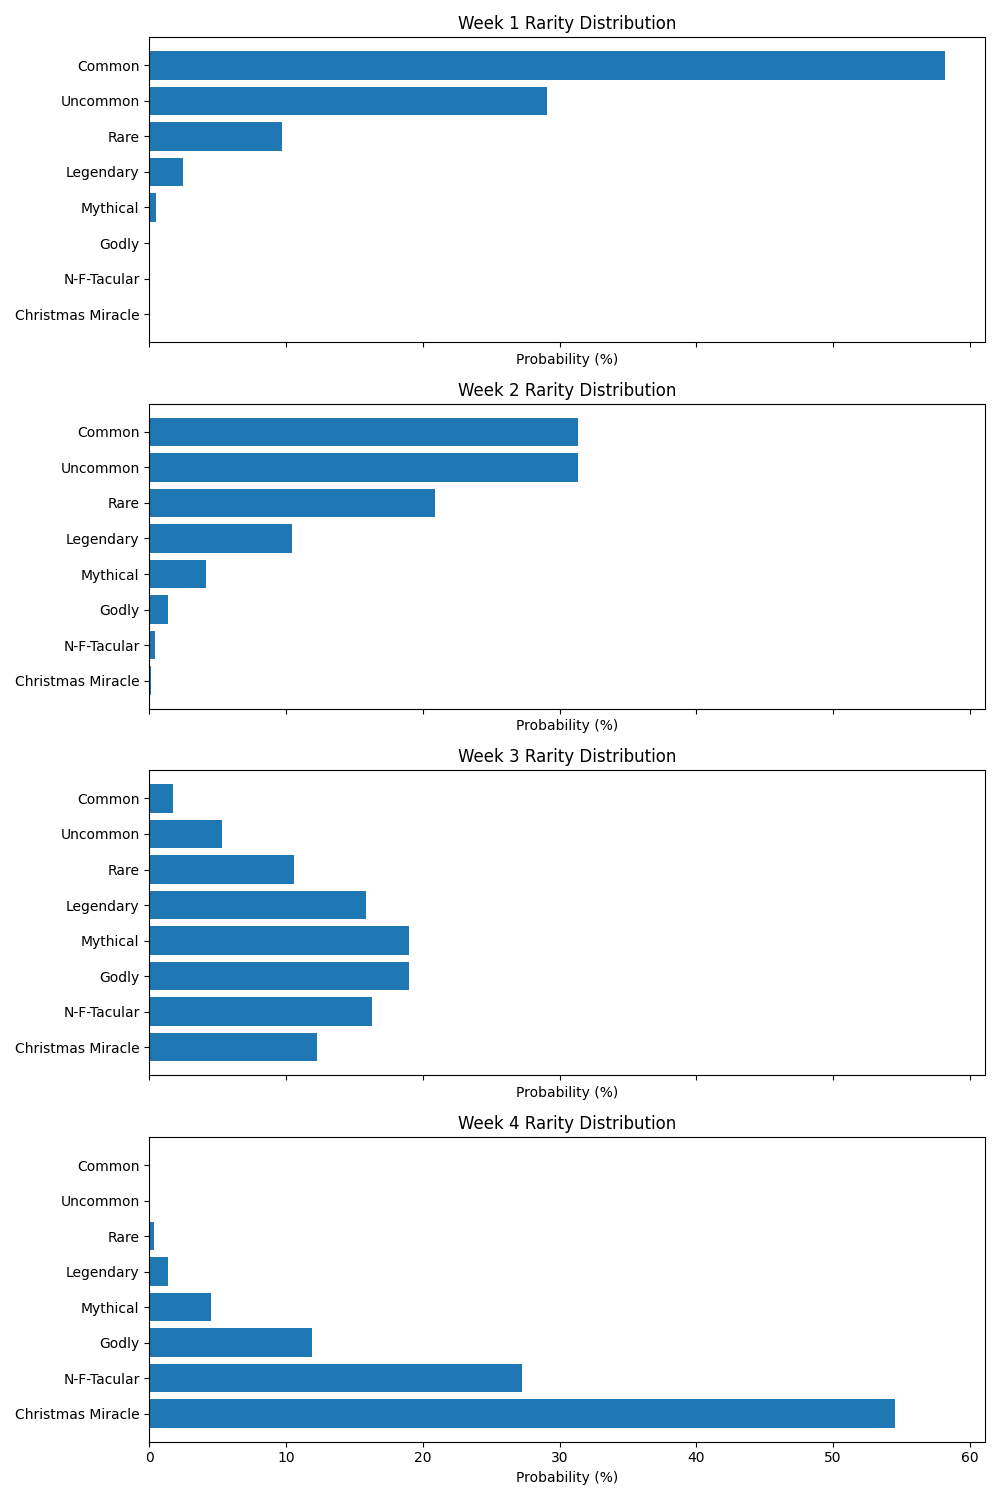
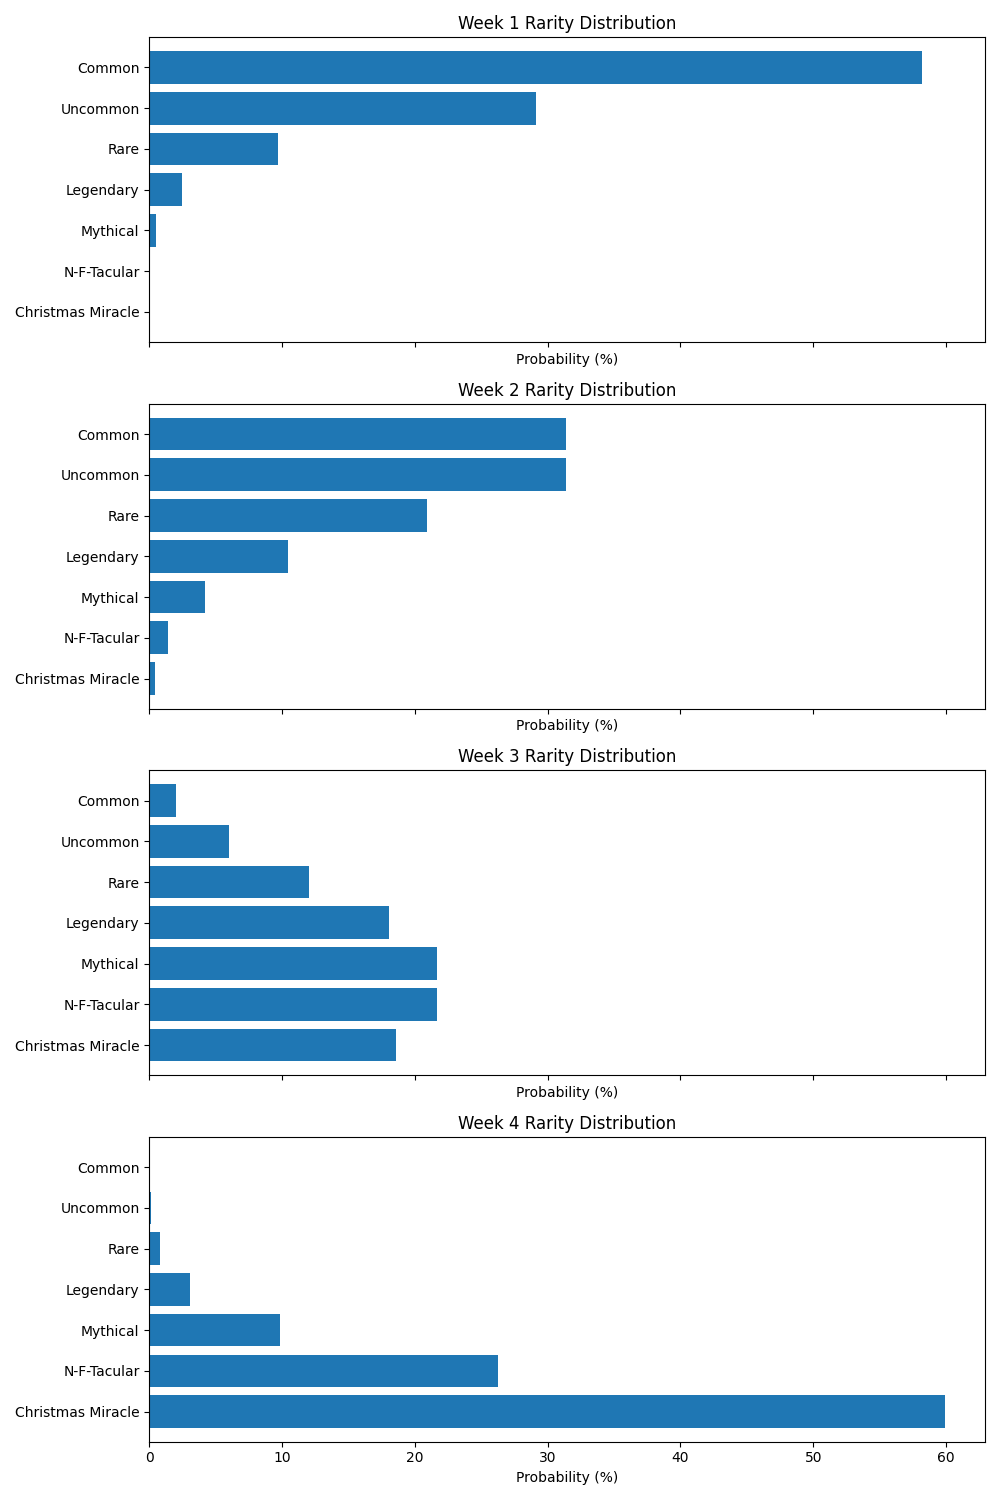
Removed godly and added all gifs.

diff --git a/experiments/test-rarity-border.py b/experiments/test-rarity-border.py
@@ -2,18 +2,30 @@
 # %%
 from PIL import Image
 
-# Load the example images
-# frame_gif = Image.open("../frames/neon_frame.gif")
-# frame_gif = Image.open("../frames/cat_crime_graffiti.gif")
-frame_gif = Image.open("../frames/glitch_unstable.gif")
+# Load the example image
+# frame_name = "neon_frame"
+# frame_name = "cat_crime_graffiti"
+# frame_name = "glitch_unstable"
+# frame_name = "speedlines"
+# frame_name = "glitch_wave"
+# frame_name = "darkage_red"
+# frame_name = "rain_of_gold"
+frame_name = "christmas_lights"
+
+frame_gif = Image.open(f"../frames/{frame_name}.gif")
+
 image = Image.open("imgs/cat_santa.png")
 width, height = image.size
 
 # Create a black background image
-offset = 275
-base_layer = Image.new(mode="RGB", size=(width + offset, height + offset))
+if frame_name.lower() in ["speedlines", "rain_of_gold"]:
+    OFFSET = 0
+else:
+    OFFSET = 275
+
+base_layer = Image.new(mode="RGB", size=(width + OFFSET, height + OFFSET))
 # Paste the target image on the base layer
-base_layer.paste(image, (offset//2, offset//2))
+base_layer.paste(image, (OFFSET//2, OFFSET//2))
 
 # Break apart the frame gif, paste it ontop of the base image, and reconstruct it in a list
 gif_imgs = []
@@ -21,7 +33,7 @@ try:
     while 1:
         # Get the next frame, resize it, and add an alpha layer
         frame_gif.seek(frame_gif.tell()+1)
-        frame_img = frame_gif.resize((width + offset, height + offset))
+        frame_img = frame_gif.resize((width + OFFSET, height + OFFSET))
         frame_img = frame_img.convert('RGBA')
 
         # Copy the base layer image
@@ -31,7 +43,6 @@ try:
 
         # Add this frame to the output list
         gif_imgs.append(temp_img.copy())
-
 except EOFError:
     pass # end of sequence
 

diff --git a/experiments/drop-rates.py b/experiments/drop-rates.py
@@ -12,7 +12,7 @@ import matplotlib.pyplot as plt
 from scipy.stats import poisson
 
 # Initialization
-labels = ["Common", "Uncommon", "Rare", "Legendary", "Mythical", "Godly", "N-F-Tacular", "Christmas Miracle"]
+labels = ["Common", "Uncommon", "Rare", "Legendary", "Mythical", "N-F-Tacular", "Christmas Miracle"]
 num_labels = len(labels)
 ids = np.arange(1, num_labels + 1)
 values = 2*ids

diff --git a/README.md b/README.md
@@ -7,11 +7,11 @@ Every day in the month of December, users will be able to interact with the Disc
 Every gift's artwork will be procedurally generated and created by an AI program ([Dalle-2](https://openai.com/dall-e-2/)) that translates natural language text into images.
 Each NFT will be randomly generated with different atributes and rarity levels.
 Attributes include a variety of subjects, hats, eyes, beards, scarfs, and backgrounds!
-With over 271,881,792 possiblities, there is sure to be something for everyone!
+With over 22,656,816 possiblities, there is sure to be something for everyone!
 
 ... Also, as a special Christmas gift, Santa will be loading up your Ethereum wallets with $1 Billion dollars in Ethereum (~758,000 ETH), so feel free to set prices and trade NFTs amongst yourselves!
 
-There are 8 Rarity Levels (listed in order of increasing rarity):
+There are 7 Rarity Levels (listed in order of increasing rarity):
 
 | Rarity Level      |
 | -----------       |
@@ -20,7 +20,6 @@ There are 8 Rarity Levels (listed in order of increasing rarity):
 | Rare              |
 | Legendary         |
 | Mythical          |
-| Godly             |
 | N-F-Tacular       |
 | Christmas Miracle |
 
@@ -32,18 +31,17 @@ Once I generate your wallet addresses, you can see your NFT collection on [Opens
 # --------------------------------------------------------------- #
 # Rarity Level Overview
 
-There are 8 Rarity Levels of Advent NFTs.
+There are 7 Rarity Levels of Advent NFTs.
 
 | Rarity Level      | Initial Probabilities |
-| -----------       | -----------       |
-| Common            | 58.198 %          |
-| Uncommon          | 29.099 %          |
-| Rare              |  9.700 %          |
-| Legendary         |  2.425 %          |
-| Mythical          |  0.485 %          |
-| Godly             |  0.081 %          |
-| N-F-Tacular       |  0.012 %          |
-| Christmas Miracle |  0.001 %          |
+| -----------       | -----------           |
+| Common 		    | 58.199 %              |
+| Uncommon 		    | 29.099 %              |
+| Rare 		        | 9.700 %               |
+| Legendary 		| 2.425 %               |
+| Mythical 		    | 0.485 %               |
+| N-F-Tacular 		| 0.081 %               |
+| Christmas Miracle | 0.012 %               |
 
 Every week, the probability mass function (PMF) describing the "rarity" or "drop rate" for NFTs characterized by each Rarity Level will be modified as described in the PMF histograms.
 
@@ -61,10 +59,11 @@ Each rarity level has different frame options.
 | Uncommon          | <ul><li>Portal Blue</li><li>Portal Orange</li></ul> |
 | Rare              | <ul><li>Darkage [red]</li><li>Darkage [blue]</li></ul> |
 | Legendary         | <ul><li>Darkage [rgb]</li><li>Glitch [unstable]</li></ul> |
-| Mythical          | <ul><li>Glitch [Neon]</li><li>Neon Frame</li></ul> |
-| Godly             | <ul><li>Orange God Rays</li><li>Green God Rays</li></ul> |
-| N-F-Tacular       | <ul><li>Speedlines</li><li>Rain of gold</li></ul> |
-| Christmas Miracle | Human: fall flat christmas lights |
+| Mythical          | <ul><li>Glitch [Neon]</li><li>Neon Frame</li><li>Glitch Wave</li></ul> |
+| N-F-Tacular       | <ul><li>Speedlines</li><li>Rain of gold</li><li>Cat Graffiti</li></ul> |
+| Christmas Miracle | Christmas lights |
+
+Total Frames: 14
 
 ## Subjects
 
@@ -92,6 +91,7 @@ Each rarity level has different frame options.
 | Alan          |
 | Nala          |
 
+Total Subjects: 19
 
 ## Backgrounds
 
@@ -100,21 +100,28 @@ Each rarity level has different frame options.
 | None           |
 | Snow           |
 | Ice            |
+| Space          |
+| vv Only Christmas Miracle vv | 
 | Fireplace      |
 | Christmas Tree |
 | North Pole     |
-| Space          |
 
-## Headware
+Total Backgrounds: 7
 
-| Headware    |
+## Hats
+
+| Hats        |
 | ----------- | 
 | None        |
 | Winter Hat  |
 | Nightcap    |
+| vv Only N-F-Tacular + vv |
 | Robobt Head |
+| vv Only Christmas Miracle vv |
 | Santa Hat   |
 | Party Hat   |
+
+Total Hats: 6
 
 ## Eyes
 
@@ -125,14 +132,19 @@ Each rarity level has different frame options.
 | Blue           |
 | Brown          |
 | Green          |
+| vv Only Mythic + vv |
 | Purple         |
-| Pepermint      |
 | Neon           |
 | RGB            |
+| vv Only N-F-Tacular + vv |
 | Rainbow        |
 | Fire           |
 | Sunglasses     |
 | Laser eyes     |
+| vv Only Christmas Miracle vv |
+| Pepermint      |
+
+Total Eyes: 13
 
 ## Beards
 
@@ -144,12 +156,17 @@ Each rarity level has different frame options.
 | Blue           |
 | Brown          |
 | Green          |
+| vv Only Mythic + vv |
 | Purple         |
-| Pepermint      |
 | Neon           |
 | RGB            |
+| vv Only N-F-Tacular + vv |
 | Rainbow        |
 | Fire           |
+| vv Only Christmas Miracle vv |
+| Pepermint      |
+
+Total Beards: 12
 
 ## Scarfs
 
@@ -161,9 +178,14 @@ Each rarity level has different frame options.
 | Blue           |
 | Brown          |
 | Green          |
+| vv Only Mythic + vv |
 | Purple         |
-| Pepermint      |
 | Neon           |
 | RGB            |
+| vv Only N-F-Tacular + vv |
 | Rainbow        |
 | Fire           |
+| vv Only Christmas Miracle vv |
+| Pepermint      |
+
+Total Beards: 13
